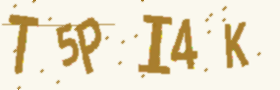
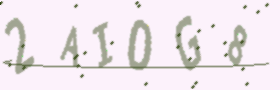
add access token check

diff --git a/.history/templates/index_20261028101603.html b/.history/templates/index_20261028101603.html
@@ -1,0 +1,76 @@
+<!DOCTYPE html>
+<html>
+<head>
+    <title>Captcha Cloud Lab</title>
+    <meta charset="UTF-8">
+</head>
+<body style="font-family: Arial; text-align:center; padding-top: 50px;">
+
+    <h2>I need to verify you are a human, not a robot </h2>
+    <h4> (I am a robot though 😜) </h4>
+
+    <img src="https://cdn-icons-png.flaticon.com/512/4712/4712027.png" width="100">
+    <br><br>
+
+    <img id="captcha_img" src="/static/captcha.png" width="280" style="border: 1px solid #ccc; border-radius: 8px;">
+    <br>
+    <button onclick="reloadCaptcha()" style="font-size: 12px; cursor: pointer;">🔄 Reload Image</button>
+    <br><br>
+
+    <input id="captcha_input" placeholder="Enter text here" style="padding: 10px; font-size: 16px;">
+    <button onclick="verify()" style="padding: 10px 20px; font-size: 16px; cursor: pointer;">Verify</button>
+
+    <h3 id="result"></h3>
+
+    <script>    // JavaScript
+        // Set this to your Render URL (e.g., https://my-app.onrender.com)
+        // Leave as empty string if the HTML is served by the same Flask app
+        // Empty string means "use the same server I came from"
+        const BASE_URL = "";
+        // for local tests only
+        //const BASE_URL = "http://127.0.0.1:5000";
+
+        // code for verify Captcha
+        async function verify() {
+
+            const inputField = document.getElementById("captcha_input");
+            const resultText = document.getElementById("result");
+
+            const res = await fetch(`${BASE_URL}/verify`, {
+                method: "POST",
+                headers: {"Content-Type":"application/json"},
+                body: JSON.stringify({ captcha: inputField.value })
+            });
+
+            const data = await res.json();
+
+            if (data.status === "verified") {
+                resultText.innerText = "✅ Success! You are human.";
+                resultText.style.color = "green";
+            } else {
+                resultText.innerText = "❌ Failed. Try again.";
+                resultText.style.color = "red";
+                reloadCaptcha(); // Automatically reload on failure
+                inputField.value = ""; // Clear the input
+            }
+        }
+
+        // reaload the Captcha in case user can't read it or fails
+        async function reloadCaptcha() {
+
+            // 1. Tell the server to generate a new image
+            await fetch(`${BASE_URL}/captcha`);
+
+            // 2. Get the image element
+            const img = document.getElementById("captcha_img");
+
+            // 3. Force the browser to re-download the image
+            // (We add ?t=... so the browser thinks it's a new file
+            // and bypasses the cache
+            img.src = `${BASE_URL}/static/captcha.png?t=${new Date().getTime()}`;
+
+        }
+    </script>
+
+</body>
+</html>

diff --git a/.history/app_20261030122706.py b/.history/app_20261030122706.py
@@ -1,0 +1,119 @@
+"""
+Captcha Python Web Service
+Cloud Lab 2, 2026 | Dr. Hakim Mitiche
+"""
+
+from flask import Flask, jsonify, request
+from flask import send_file, render_template, send_from_directory
+from flask_cors import CORS
+from captcha.image import ImageCaptcha
+import random
+import string
+import os
+
+app = Flask(__name__)
+CORS(app)  # 2. Enable it for all routes
+
+# Ensure the 'static' folder exists for our images
+if not os.path.exists('static'):
+    os.makedirs('static')
+
+# Configuration
+CAPTCHA_TEXT_LENGTH = 6
+# Global variable to store the current answer
+# (Note: In real cloud apps, we'd use a database/session)
+#current_captcha_answer = ""
+
+"""Generates a random string of uppercase letters and digits."""
+def generate_random_text():
+    chars = string.ascii_uppercase + string.digits
+    return ''.join(random.choices(chars, k=CAPTCHA_TEXT_LENGTH))
+
+def token_ok():
+    expected = os.environ.get("ACCESS_TOKEN")
+    return bool(expected) and request.headers.get("Authorization") == f"Bearer {expected}"
+
+# make cloud serve the frontend as well (templates/index.html)
+@app.route("/")
+def index():
+    # Serves templates/index.html automatically
+    return render_template("index.html")
+
+
+@app.route("/captcha", methods=["GET"])
+def get_captcha():
+    """
+    Endpoint: GET /captcha
+    Generates a text challenge and saves the fuzzy image to disk.
+    """
+    if not token_ok():
+        return jsonify({"error": "Unauthorized"}), 401
+
+    global current_captcha_answer
+    current_captcha_answer = generate_random_text()
+
+    # Create the visual challenge and save to disk
+    image = ImageCaptcha(width=280, height=90)
+
+    # Save directly into the static folder
+    image.write(current_captcha_answer, 'static/captcha.png')
+
+    #with open("captcha.png", "wb") as f:
+    #    f.write(image_data.read())
+
+    return jsonify({
+        "status": "generated",
+        "message": "New captcha image created as 'captcha.png'",
+        "debug_text": current_captcha_answer  # Hidden in production, used for lab testing
+    }), 200
+    #return jsonify({"status": "generated"}), 200
+
+@app.route("/static/<path:filename>")
+def serve_static(filename):
+    # Helps the browser find the image inside the static folder
+    return send_from_directory('static', filename)
+
+@app.route("/verify", methods=["POST"])
+def verify_captcha():
+    """
+    Endpoint: POST /verify
+    Checks if the user's JSON input matches the stored captcha.
+    """
+    if not token_ok():
+        return jsonify({"error": "Unauthorized"}), 401
+    
+    # Get JSON data from the request body
+    data = request.get_json()
+
+    if not data or "captcha" not in data:
+        return jsonify({"error": "Missing 'captcha' key in JSON"}), 400
+
+    user_input = data.get("captcha").strip().upper()
+
+    # Case-insensitive comparison for better user experience
+    if user_input == current_captcha_answer:
+        # success
+        return jsonify({"status": "verified", "code": 200})
+    # captcha challenge failure
+    return jsonify({"status": "failed", "reason": "Incorrect text"}), 401
+
+@app.route("/view-image")
+def view_image():
+    """Serves the generated captcha image to the browser."""
+    if os.path.exists("captcha.png"):
+        return send_file("captcha.png", mimetype='image/png')
+    return jsonify({"error": "No image generated yet"}), 404
+
+if __name__ == "__main__":
+    # Get port number from environment variable
+    # default to 5000 (for local testing)
+    # Render will assign a value to PORT on the server side
+    port = int(os.environ.get("PORT", 5000))
+    # Start the Flask web server on port 5000
+    print("🚀 Captcha Service Running...")
+    #app.run(host="0.0.0.0", port=port)
+    #app.run(host="0.0.0.0", port=port, debug=True)
+    app.run(host='0.0.0.0', port=5000, debug=False, use_reloader=False)
+    # host="0.0.0.0" is REQUIRED for cloud deployment
+    # debug mode enables to see errors and relaunch the server
+    # utile in developpment and test stage

diff --git a/.history/app_20261028100019.py b/.history/app_20261028100019.py
@@ -1,0 +1,109 @@
+"""
+Captcha Python Web Service
+Cloud Lab 2, 2026 | Dr. Hakim Mitiche
+"""
+
+from flask import Flask, jsonify, request
+from flask import send_file, render_template, send_from_directory
+from flask_cors import CORS
+from captcha.image import ImageCaptcha
+import random
+import string
+import os
+
+app = Flask(__name__)
+CORS(app)  # 2. Enable it for all routes
+
+# Ensure the 'static' folder exists for our images
+if not os.path.exists('static'):
+    os.makedirs('static')
+
+# Configuration
+CAPTCHA_TEXT_LENGTH = 6
+# Global variable to store the current answer
+# (Note: In real cloud apps, we'd use a database/session)
+#current_captcha_answer = ""
+
+"""Generates a random string of uppercase letters and digits."""
+def generate_random_text():
+    chars = string.ascii_uppercase + string.digits
+    return ''.join(random.choices(chars, k=CAPTCHA_TEXT_LENGTH))
+
+# make cloud serve the frontend as well (templates/index.html)
+@app.route("/")
+def index():
+    # Serves templates/index.html automatically
+    return render_template("index.html")
+
+
+@app.route("/captcha", methods=["GET"])
+def get_captcha():
+    """
+    Endpoint: GET /captcha
+    Generates a text challenge and saves the fuzzy image to disk.
+    """
+    global current_captcha_answer
+    current_captcha_answer = generate_random_text()
+
+    # Create the visual challenge and save to disk
+    image = ImageCaptcha(width=280, height=90)
+
+    # Save directly into the static folder
+    image.write(current_captcha_answer, 'static/captcha.png')
+
+    #with open("captcha.png", "wb") as f:
+    #    f.write(image_data.read())
+
+    return jsonify({
+        "status": "generated",
+        "message": "New captcha image created as 'captcha.png'",
+        "debug_text": current_captcha_answer  # Hidden in production, used for lab testing
+    }), 200
+    #return jsonify({"status": "generated"}), 200
+
+@app.route("/static/<path:filename>")
+def serve_static(filename):
+    # Helps the browser find the image inside the static folder
+    return send_from_directory('static', filename)
+
+@app.route("/verify", methods=["POST"])
+def verify_captcha():
+    """
+    Endpoint: POST /verify
+    Checks if the user's JSON input matches the stored captcha.
+    """
+    # Get JSON data from the request body
+    data = request.get_json()
+
+    if not data or "captcha" not in data:
+        return jsonify({"error": "Missing 'captcha' key in JSON"}), 400
+
+    user_input = data.get("captcha").strip().upper()
+
+    # Case-insensitive comparison for better user experience
+    if user_input == current_captcha_answer:
+        # success
+        return jsonify({"status": "verified", "code": 200})
+    # captcha challenge failure
+    return jsonify({"status": "failed", "reason": "Incorrect text"}), 401
+
+@app.route("/view-image")
+def view_image():
+    """Serves the generated captcha image to the browser."""
+    if os.path.exists("captcha.png"):
+        return send_file("captcha.png", mimetype='image/png')
+    return jsonify({"error": "No image generated yet"}), 404
+
+if __name__ == "__main__":
+    # Get port number from environment variable
+    # default to 5000 (for local testing)
+    # Render will assign a value to PORT on the server side
+    port = int(os.environ.get("PORT", 5000))
+    # Start the Flask web server on port 5000
+    print("🚀 Captcha Service Running...")
+    #app.run(host="0.0.0.0", port=port)
+    #app.run(host="0.0.0.0", port=port, debug=True)
+    app.run(host='0.0.0.0', port=5000, debug=False, use_reloader=False)
+    # host="0.0.0.0" is REQUIRED for cloud deployment
+    # debug mode enables to see errors and relaunch the server
+    # utile in developpment and test stage

diff --git a/app.py b/app.py
@@ -29,6 +29,10 @@ def generate_random_text():
     chars = string.ascii_uppercase + string.digits
     return ''.join(random.choices(chars, k=CAPTCHA_TEXT_LENGTH))
 
+def token_ok():
+    expected = os.environ.get("ACCESS_TOKEN")
+    return bool(expected) and request.headers.get("Authorization") == f"Bearer {expected}"
+
 # make cloud serve the frontend as well (templates/index.html)
 @app.route("/")
 def index():
@@ -42,6 +46,9 @@ def get_captcha():
     Endpoint: GET /captcha
     Generates a text challenge and saves the fuzzy image to disk.
     """
+    if not token_ok():
+        return jsonify({"error": "Unauthorized"}), 401
+
     global current_captcha_answer
     current_captcha_answer = generate_random_text()
 
@@ -72,6 +79,9 @@ def verify_captcha():
     Endpoint: POST /verify
     Checks if the user's JSON input matches the stored captcha.
     """
+    if not token_ok():
+        return jsonify({"error": "Unauthorized"}), 401
+    
     # Get JSON data from the request body
     data = request.get_json()
 
